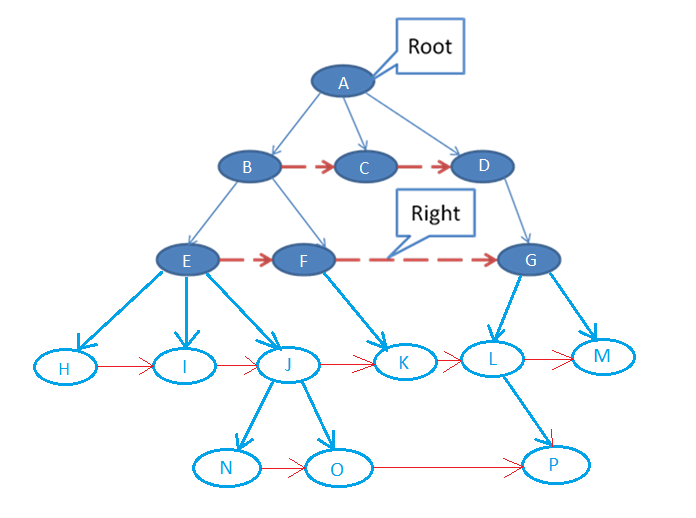
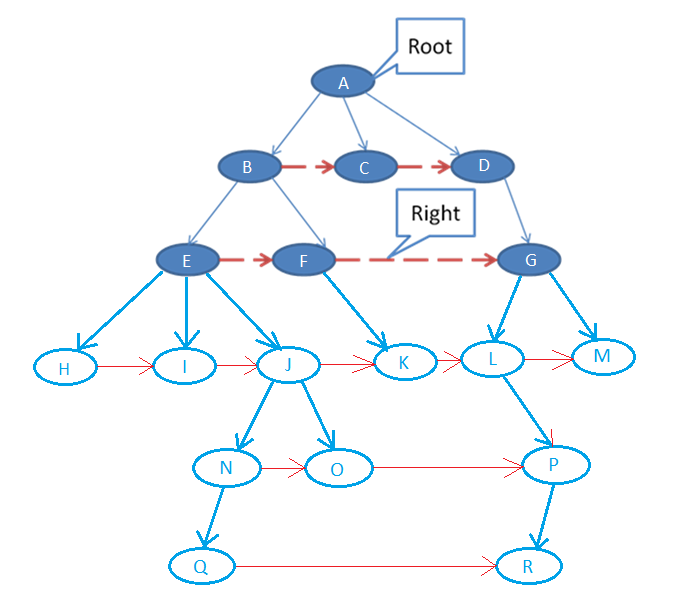
Inspiustest: add test case when first node has no child

Changed region(s): [[0.0302, 0.0, 0.9353, 0.9575], [0.9052, 0.6795, 0.9353, 0.7104], [0.1509, 0.4942, 0.181, 0.5251]]

diff --git a/src/practice/inspiustest/solution/JavaTest_Solution.java b/src/practice/inspiustest/solution/JavaTest_Solution.java
@@ -57,44 +57,41 @@ class NodeLinker {
         while (currNode != null) {
             List<Node> currChildren = currNode.children;
 
-            // 7. Nếu node hiện tại ko có con, chuyển sang node tiếp theo
-            // để connect các con của chúng
-            if (currChildren == null) {
-                currNode = currNode.right;
-                continue;
+            // 1. Nếu node hiện tại có con, connect các con đó lại.
+            // Nếu ko, chuyển sang node tiếp theo (bước 4)
+            if (currChildren != null) {
+                // 6. Nếu như chưa có prevChild, tức là currNode là node đầu tiên trong level đang
+                // duyệt, khởi tạo firstChild tại đây
+                if (prevChild == null) {
+                    firstChild = currChildren.get(0);
+                } else {
+                    // 7. currNode ko phải là node đầu tiên trong level đang duyệt, cần
+                    // connect node con cuối cùng của node trước đó (prevChild)
+                    // với con đầu tiên của nó
+                    prevChild.right = currChildren.get(0);
+                }
+
+                // 2. Connect từng thằng con của node hiện tại với nhau
+                for (int i = 0; i < currChildren.size() - 1; i++) {
+                    currChildren.get(i).right = currChildren.get(i + 1);
+                }
+
+                // 3. Dùng prevChild để connect thằng con cuối cùng của node hiện tại
+                // với thằng con đầu tiên của node tiếp theo
+                prevChild = currChildren.get(currChildren.size() - 1);
             }
 
-            // 5. Nếu như chưa có prevChild, tức là currNode là node đầu tiên trong level đang
-            // duyệt, khởi tạo firstChild tại đây
-            if (prevChild == null) {
-                firstChild = currChildren.get(0);
-            } else {
-                // 6. currNode ko phải là node đầu tiên trong level đang duyệt, cần
-                // connect node con cuối cùng của node trước đó (prevChild)
-                // với con đầu tiên của nó
-                prevChild.right = currChildren.get(0);
-            }
-
-            // 1. Connect từng thằng con của node hiện tại với nhau
-            for (int i = 0; i < currChildren.size() - 1; i++) {
-                currChildren.get(i).right = currChildren.get(i + 1);
-            }
-
-            // 2. Dùng prevChild để connect thằng con cuối cùng của node hiện tại
-            // với thằng con đầu tiên của node tiếp theo
-            prevChild = currChildren.get(currChildren.size() - 1);
-
-            // 3. Chuyển đến node tiếp theo trong level hiện tại để bắt đầu connect các
+            // 4. Chuyển đến node tiếp theo trong level hiện tại để bắt đầu connect các
             // node con của nó
             currNode = currNode.right;
 
-            // 4. Nếu như node tiếp theo ko còn nữa, chuyển sang duyệt level thấp hơn
+            // 5. Nếu như node tiếp theo ko còn nữa, chuyển sang duyệt level thấp hơn
             if (currNode == null) {
                 currNode = firstChild;
                 prevChild = null; // nhớ phải reset prevChild, vì xuống level dưới mà
+                firstChild = null;
             }
         }
-
     }
 
     ////////////////////////////
@@ -127,6 +124,8 @@ public class JavaTest_Solution {
         Node N = new Node("N");
         Node O = new Node("O");
         Node P = new Node("P");
+        Node Q = new Node("Q");
+        Node R = new Node("R");
 
         A.children = new ArrayList<>();
         A.children.add(B);
@@ -159,6 +158,12 @@ public class JavaTest_Solution {
         L.children = new ArrayList<>();
         L.children.add(P);
 
+        N.children = new ArrayList<>();
+        N.children.add(Q);
+
+        P.children = new ArrayList<>();
+        P.children.add(R);
+
         NodeLinker nodeLinker = new NodeLinker();
         nodeLinker.linkNodes(A);
 
@@ -166,7 +171,8 @@ public class JavaTest_Solution {
                 E.right == F && F.right == G && G.right == null && //
                 H.right == I && I.right == J && J.right == K && K.right == L && //
                 L.right == M && M.right == null && //
-                N.right == O && O.right == P && P.right == null)
+                N.right == O && O.right == P && P.right == null && //
+                Q.right == R && R.right == null)
             System.out.println("Test Successful!");
         else
             System.out.println("Test failed!");
